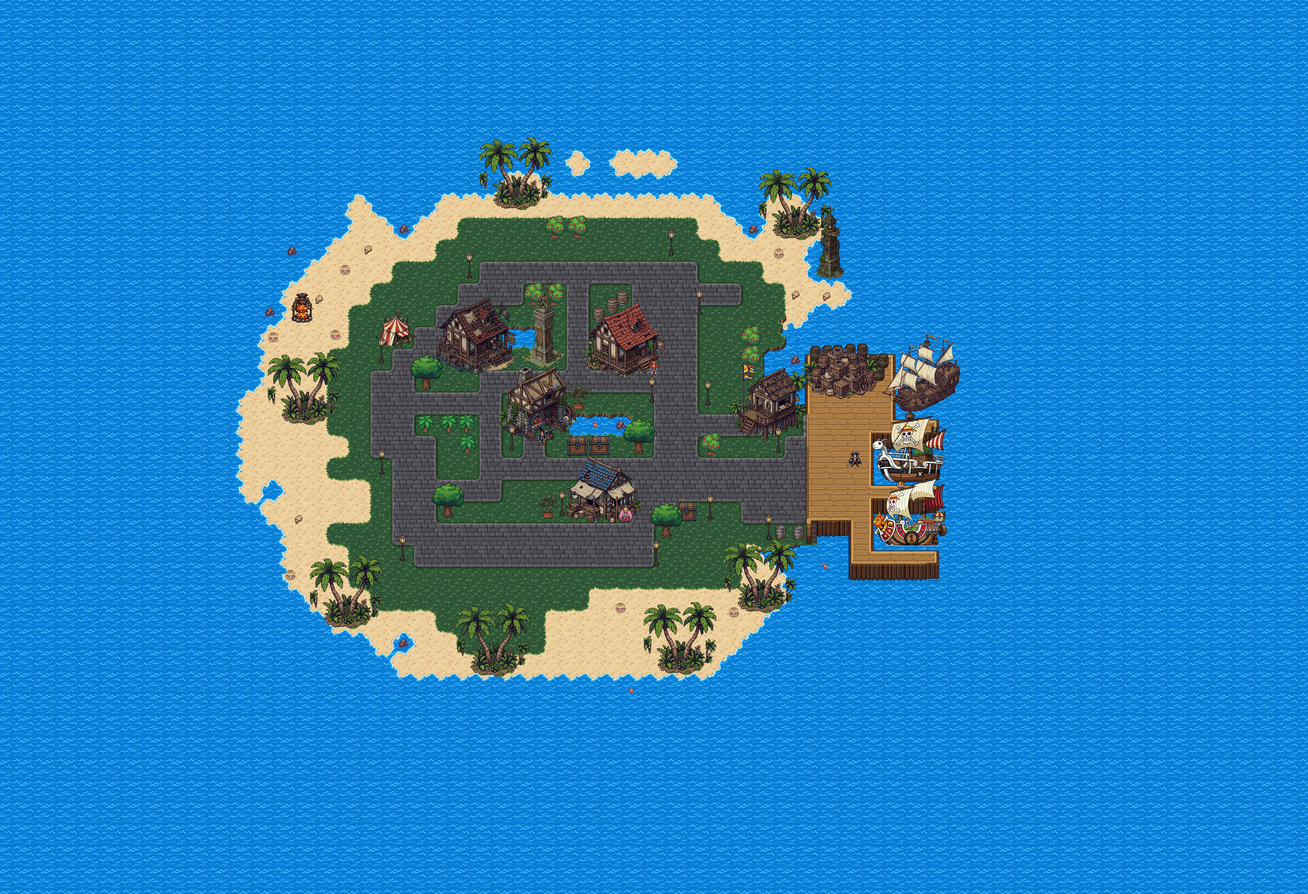
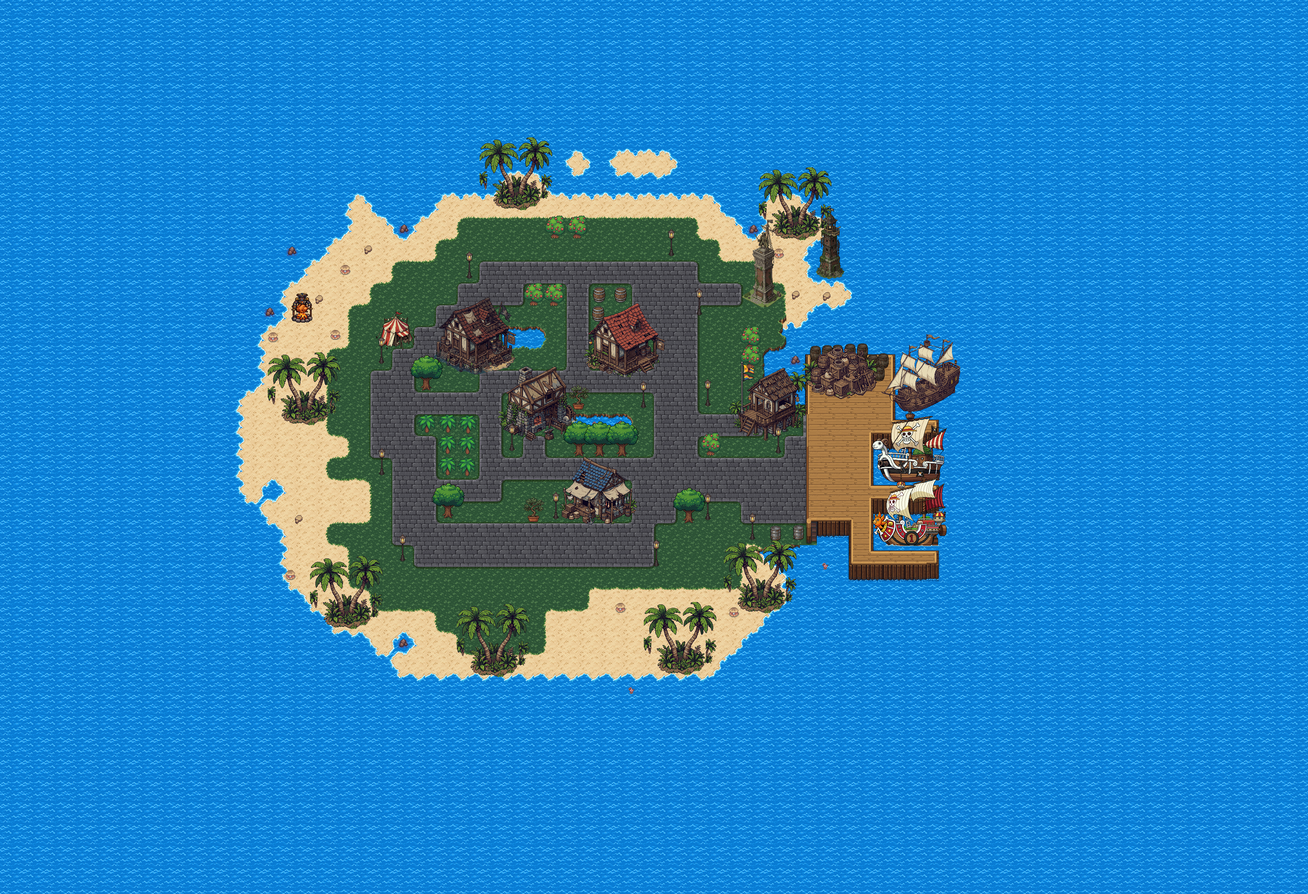
Refresh Lobby map and normalize monster sprite scale

diff --git a/new-islands-art.js b/new-islands-art.js
@@ -5,8 +5,16 @@
   const sheets={};
   if(typeof Image!=='undefined')for(const [id,actions] of Object.entries(meta))for(const action of Object.keys(actions)){const img=new Image();img.src='assets/new-islands/'+id+'/'+action+'.png';(sheets[id]??={})[action]=img;}
   const rows={south:0,west:1,east:2,north:3};
-  const DEFAULT_MONSTER_SCALE=2.25;
-  function layout(monster){const states=meta[monster.type];if(!states)return null;const direction=monster.emberFacing||'south',row=rows[direction]??0,action=monster.attackAnim>0?'attack':monster.moving>0?'walk':'idle',a=states[action],scale=DEFAULT_MONSTER_SCALE;return {row,action,a,scale,top:Math.round(monster.y+3-a.feet[row]*scale),width:Math.round(a.size*scale)};}
+  const DEFAULT_MONSTER_RENDER_SIZE=80;
+  const DEFAULT_MONSTER_SCALE=DEFAULT_MONSTER_RENDER_SIZE/64;
+  const LEGACY_MONSTER_SCALE=2.25;
+  const legacyMonsterTypes=new Set(['sham','buchi','pearl','gin','chew','kuroobi']);
+  function layout(monster){
+    const states=meta[monster.type];if(!states)return null;
+    const direction=monster.emberFacing||'south',row=rows[direction]??0,action=monster.attackAnim>0?'attack':monster.moving>0?'walk':'idle',a=states[action];
+    const scale=legacyMonsterTypes.has(monster.type)?LEGACY_MONSTER_SCALE:DEFAULT_MONSTER_RENDER_SIZE/a.size;
+    return {row,action,a,scale,top:Math.round(monster.y+3-a.feet[row]*scale),width:Math.round(a.size*scale)};
+  }
   function monster(ctx,m,time){const box=layout(m);if(!box)return false;const {row,action,a,scale,top,width}=box,img=sheets[m.type]?.[action];if(!img?.complete||!img.naturalWidth)return false;const frame=action==='attack'?Math.min(a.frames-1,Math.max(0,Math.floor((.58-m.attackAnim)*a.frames/.58))):action==='walk'?Math.floor(time*a.fps+m.bob)%a.frames:0;ctx.save();ctx.imageSmoothingEnabled=false;if(m.hit>0)ctx.filter='brightness(1.5)';ctx.drawImage(img,frame*a.size,row*a.size,a.size,a.size,Math.round(m.x-width/2),top,width,width);ctx.restore();return true;}
-  root.MareNewIslandArt={monster,layout,meta,sheets,DEFAULT_MONSTER_SCALE};
+  root.MareNewIslandArt={monster,layout,meta,sheets,DEFAULT_MONSTER_RENDER_SIZE,DEFAULT_MONSTER_SCALE,LEGACY_MONSTER_SCALE};
 })(globalThis);

diff --git a/lobby-world.js b/lobby-world.js
@@ -43,7 +43,7 @@
     colliders,playerFootprint:{w:32,h:20},terrainWalkable,navigationGoals:paths,spawnZones:[],safeZones:[{...spawn,radius:140}],
     interactions:portals,navigationCell:32};
   const image=typeof Image!=='undefined'?new Image():null;
-  if(image)image.src='assets/lobby-map.png';
+  if(image)image.src='assets/lobby-map.png?v=20261022';
   function ground(ctx,camera,width,height){
     ctx.save();ctx.imageSmoothingEnabled=false;
     if(image?.complete&&image.naturalWidth){

diff --git a/docs/TRES-ILHAS.md b/docs/TRES-ILHAS.md
@@ -10,6 +10,6 @@ As posições dos objetos visíveis foram lidas do mapa original e guardadas em 
 
 O catálogo de monstros Python parte dos atributos do Cocox: HP ×1,065, ataque ×1,055, defesa física ×1,05 e defesa mágica ×1,04 por nível acima de 18, com os multiplicadores individuais em `data/monsters.json`. O cliente lê o catálogo resolvido em `monster-catalog.js`; o teste confere equivalência exata. O combate no preview estático continua simulado no navegador, sem autoridade de servidor para dano e respawn.
 
-Animações originais de idle, movimento e ataque: `assets/new-islands/{sham,buchi,pearl,gin}/`. Os arquivos foram empacotados em folhas direcionais mantendo os pixels originais. Metadados de origem: `assets/new-islands/provenance.json`. A escala visual padrão para novos monstros é **2,25×** o quadro nativo, igual à escala atual do Cocox. Novas integrações devem usar `DEFAULT_MONSTER_SCALE` em `new-islands-art.js`, mantendo os pés no mesmo ponto de chão em todos os quadros e posicionando a barra de vida acima do limite superior calculado.
+Animações originais de idle, movimento e ataque: `assets/new-islands/{sham,buchi,pearl,gin}/`. Os arquivos foram empacotados em folhas direcionais mantendo os pixels originais. Metadados de origem: `assets/new-islands/provenance.json`. A escala visual padrão dos novos sprites de monstros é **80 px** por quadro, próxima da altura de 74 px usada pelo personagem. Mr. 3, Cabaji e Marinheiro usam esse tamanho com os pés ancorados no mesmo ponto em idle, caminhada e ataque; futuras integrações normalizam automaticamente o quadro para 80 px. Sham, Buchi, Pearl, Gin, Chew e Kuroobi mantêm sua escala legada de 2,25×; Cocox conserva o layout próprio.
 
 Validação: `node --test tests/new-islands.test.cjs tests/rare-world.test.cjs tests/archipelago.test.cjs`, demais suítes Node pertinentes, navegação visual no navegador e `python tools/build_pages.py`.

diff --git a/docs/LOBBY-MAP.md b/docs/LOBBY-MAP.md
@@ -1,6 +1,6 @@
 # Lobby do PixelLab
 
-O mapa `Lobby` já existente no PixelLab (`5cf16074-4d27-437e-acd5-869fe9339f26`) foi exportado em recortes sem geração nova. A grade original de 60×41 tiles de 64 px está em `lobby-map-data.js`; a imagem montada e servida ao Canvas está em `assets/lobby-map.png`. As áreas vazias da exportação foram preenchidas com a própria textura de água existente no mapa, mantendo todos os objetos originais.
+O mapa `Lobby` atual do PixelLab (`5cf16074-4d27-437e-acd5-869fe9339f26`) foi reexportado em 22/10/2026, com 60×41 tiles de 64 px. Os 20 recortes nativos foram montados em `assets/lobby-map.png`, incluindo os 97 objetos atuais; áreas sem terreno mantêm a textura de água existente. A grade em `lobby-map-data.js` foi conferida com o mapa do PixelLab e permaneceu igual. Nenhuma arte foi gerada.
 
 `lobby-world.js` define o spawn na estrada central sul, piso transitável (areia, grama, estrada e madeira), colisores dos edifícios, monumento, carga e árvores, posições dos quatro NPCs e portal de saída no cais. Clicar no portal abre o mapa do mundo pelo fluxo de Modos de Jogo. O servidor Python continua responsável pela Hierarquia; o mapa é um asset estático do cliente.
 
